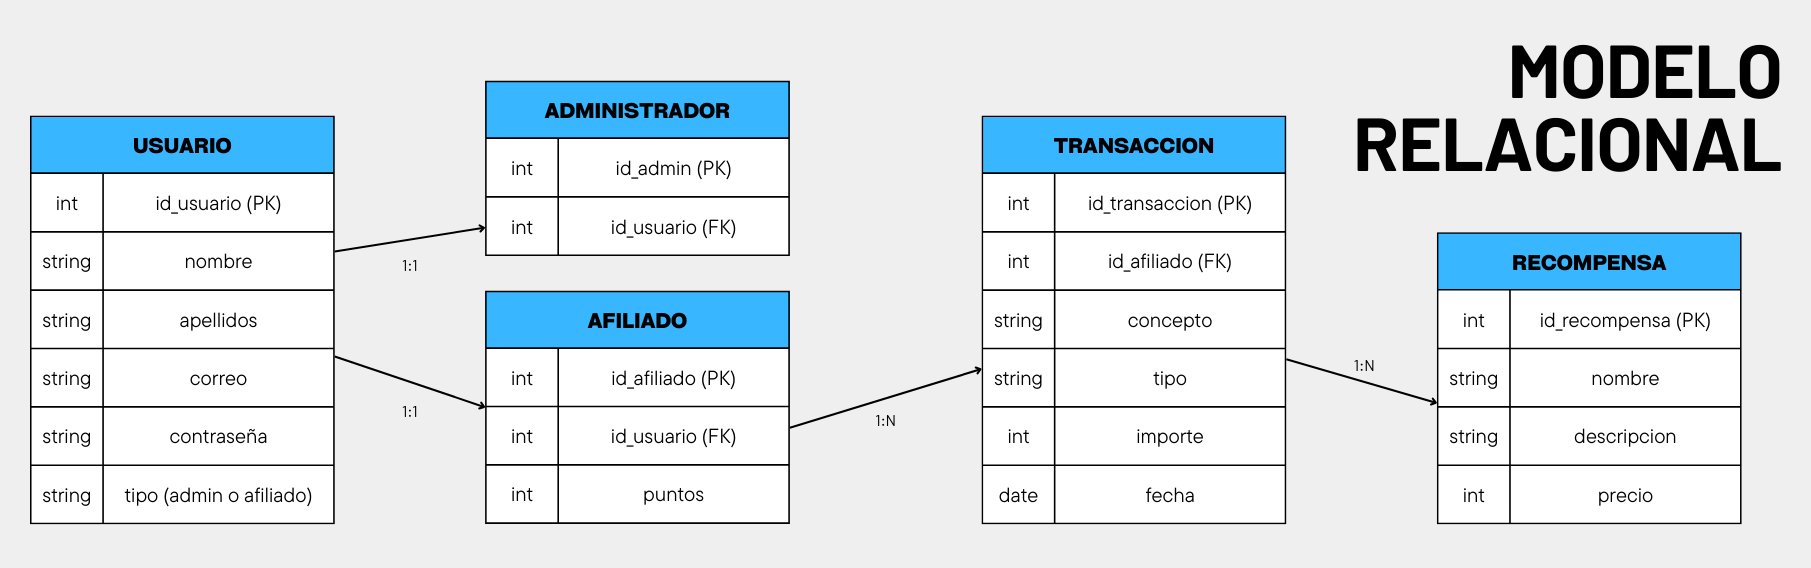
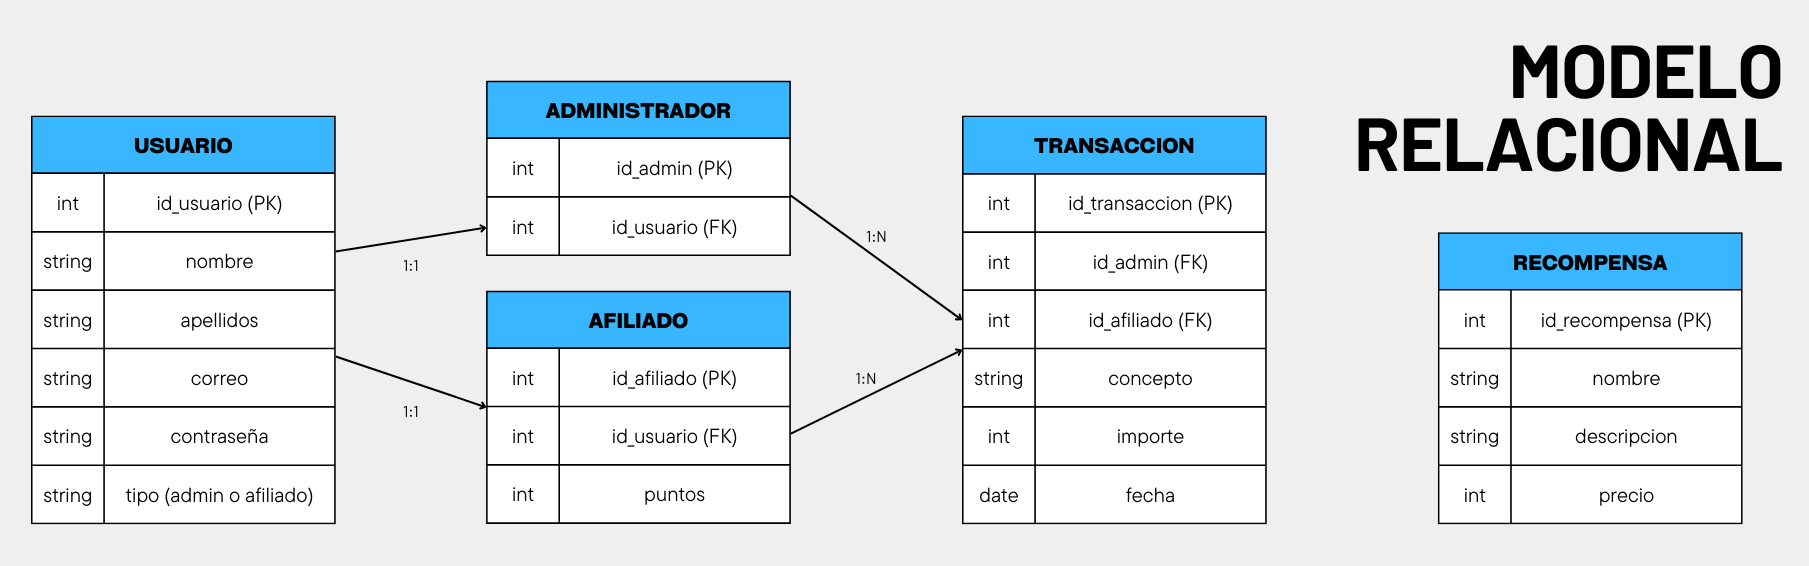
deseño - diagrama er

diff --git a/doc/templates/3_Deseño.md b/doc/templates/3_Deseño.md
@@ -34,13 +34,11 @@ puntos, canjear recompensas, etc.).
 
 ## 3- Diagrama de Base de Datos
 
-> *EXPLICACIÓN:* Neste apartado incluiranse os diagramas relacionados coa Base de Datos:
->
-> - Modelo Entidade/relación
-
 ![MODELO RELACIONAL](img_3/modelo_relacional.png)
+![DIAGRAMA ER](img_3/diagrama_er.png)
 
-En el modelo relacional se observa como está organizada la información de los usuarios normales, administradores y afiliados. Por un lado, tiene tablas para cada tipo de usuario, otra para registrar las transacciones de puntos y la última para las recompensas disponibles.
+En el modelo relacional y diagrama de entidad-relación se observa cómo está organizada la información de los usuarios y cómo interactúan entre ellos. Por un lado, tiene tablas para cada tipo de usuario, otra para registrar las transacciones de puntos y la última para las recompensas disponibles.
+
 
 ## 4- Deseño de interface de usuarios
 